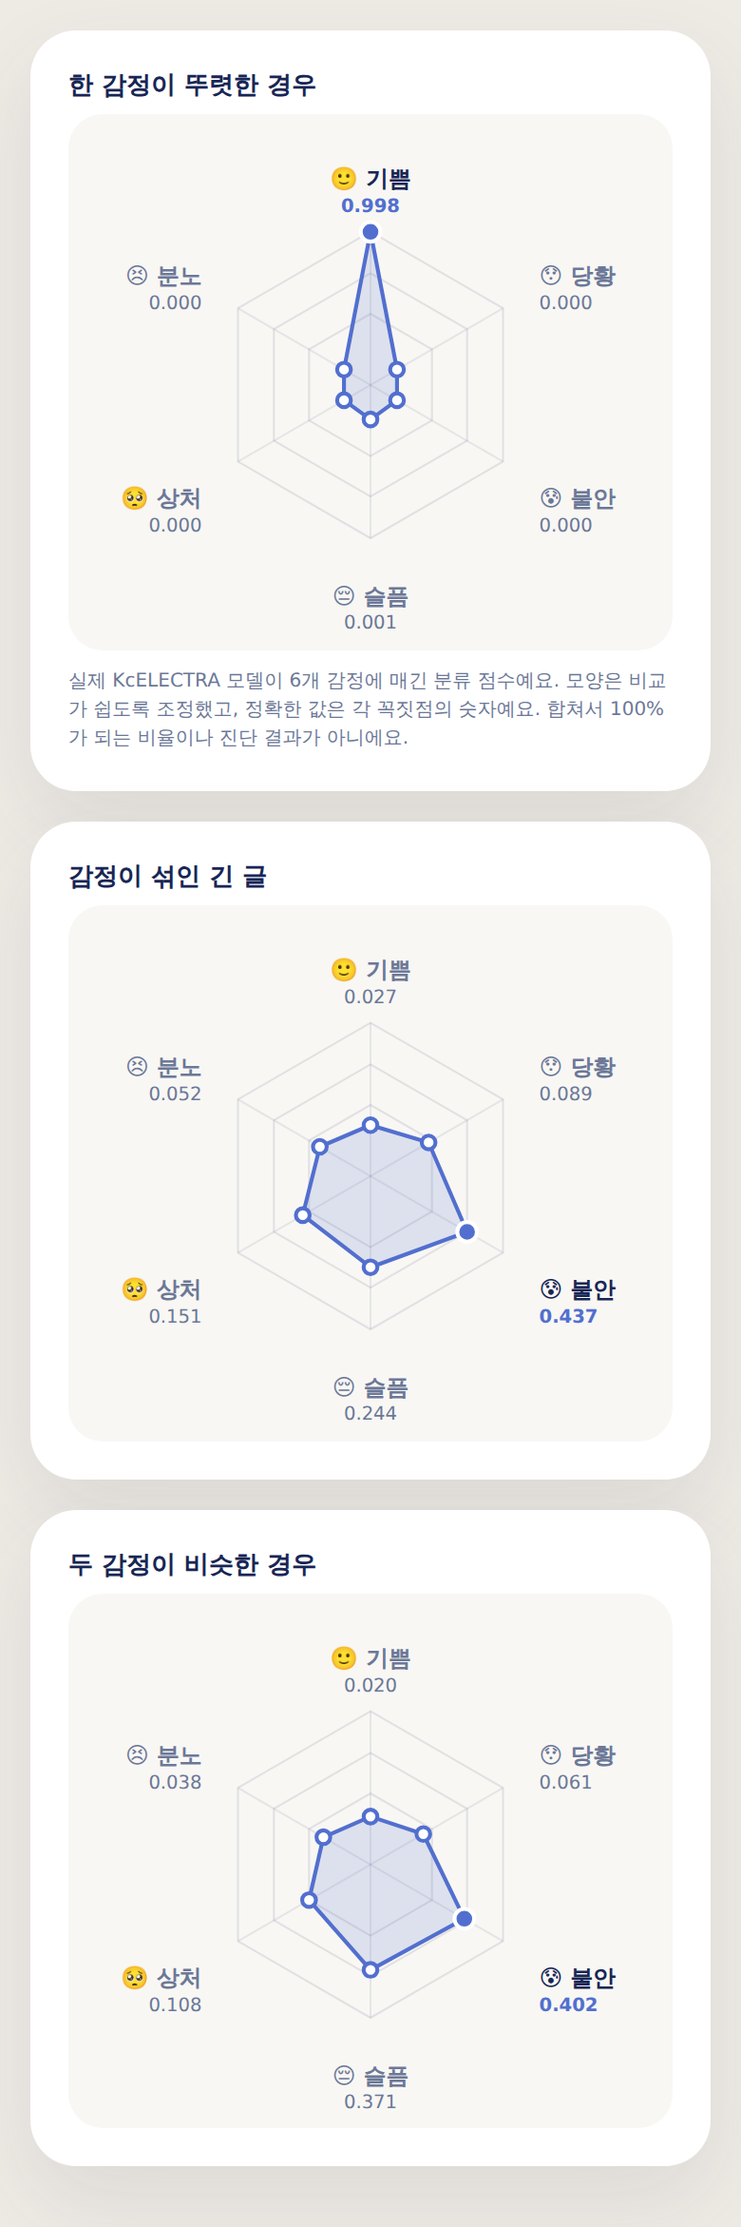
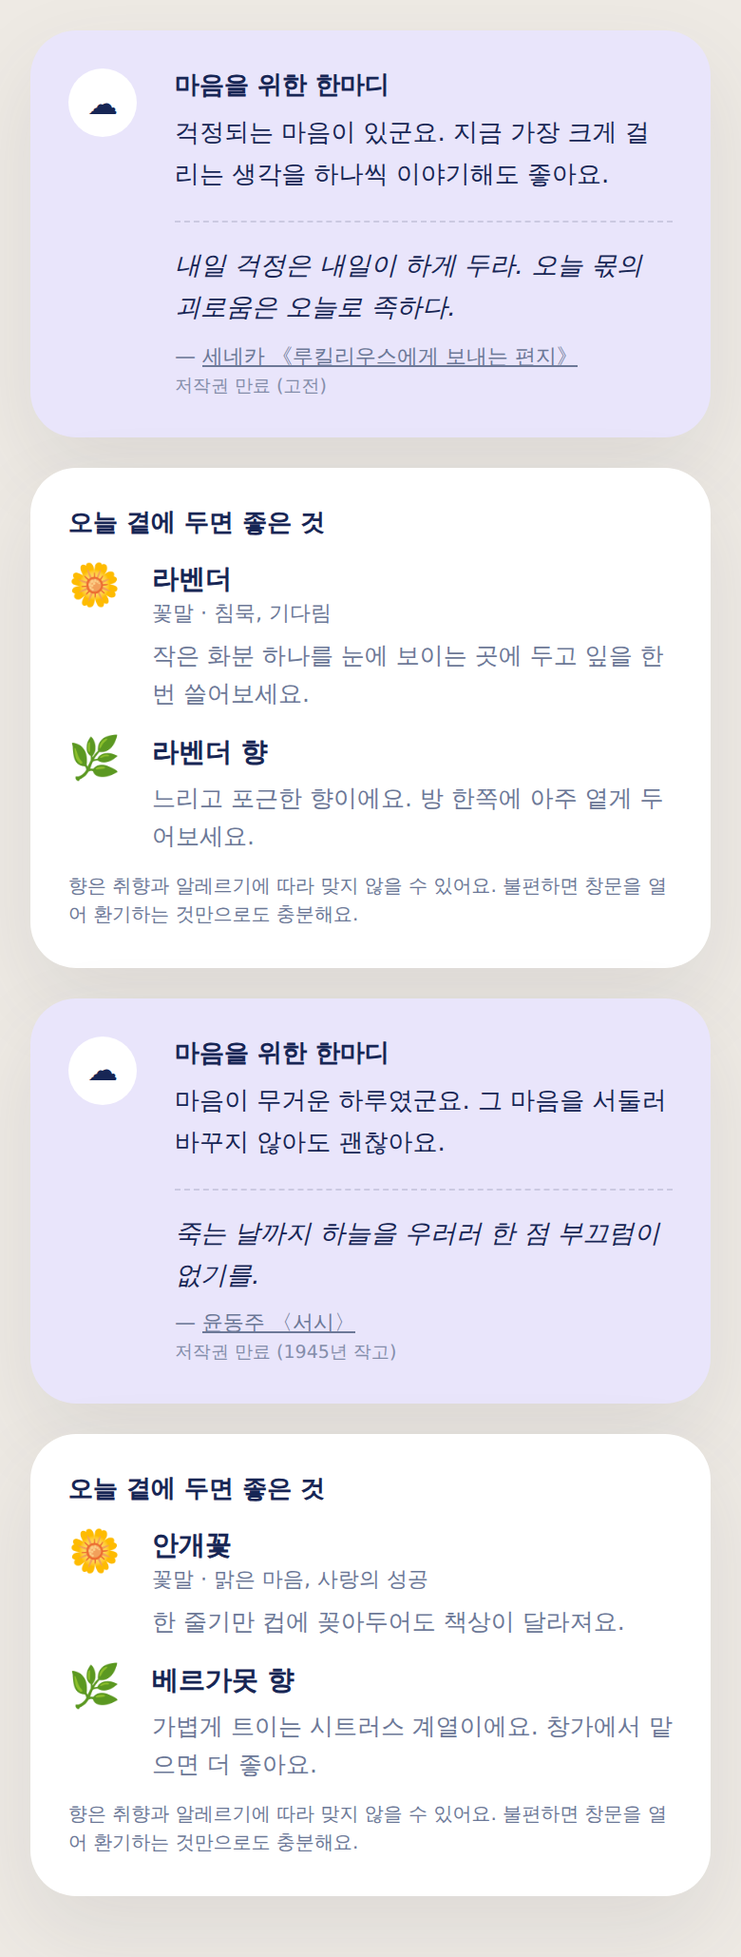
Turn the healing coach into tabs with in-app step guides and nature sounds
Picking an activity now opens a step-by-step panel inside the app instead
of pushing the user out to an external page; the source stays as a small
link at the bottom. Rain, wind and wave sounds are synthesised in the
browser with the Web Audio API, so no audio file is shipped and no
recording is licensed.

Claude-Session: https://claude.ai/code/session_01Q3547CZe5AwKq73dkBk4s7

diff --git a/dist/app.js b/dist/app.js
@@ -206,6 +206,14 @@ function renderAnalysis() {
   loadHealingRecommendations();
 }
 
+let healingCards = [];
+let selectedHealingId = null;
+
+const KIND_ICON = {
+  '호흡': '🌱', '감각활동': '◌', '자연의 소리': '🎧', '걷기': '👣',
+  '꽃·나무': '🌿', '필사': '✎', '음악': '♫', '취미': '✦'
+};
+
 async function loadHealingRecommendations() {
   if (!lastAnalysis) return;
   try {
@@ -218,17 +226,136 @@ async function loadHealingRecommendations() {
       });
       if (!response.ok) throw new Error('recommendation');
       data = await response.json();
+      lastAnalysis.recommendation = data;
     }
-    const list = document.querySelector('.recommend-list');
-    list.innerHTML = data.cards.slice(0, 8).map((card, index) => `<article class="card recommendation ${index === 0 ? 'featured' : ''}">
-      <div class="rec-icon ${index % 2 ? 'blue' : 'mint'}" aria-hidden="true">${card.kind === '음악' ? '♫' : card.kind === '필사' ? '✎' : card.kind === '꽃·나무' ? '🌿' : card.kind === '취미' ? '✦' : card.kind === '감각활동' ? '◌' : '🌱'}</div>
-      <div><span class="soft-chip">${index === 0 ? '1순위 추천' : escapeHtml(card.kind)}</span><h3>${escapeHtml(card.title)}</h3><p>${escapeHtml(card.description)}</p></div>
-      ${card.id === 'breathing-1m' ? '<button class="secondary-button" type="button" data-start-breath>1분 시작하기</button>' : ''}
-      ${card.source_url?.startsWith('https://') ? `<a class="secondary-button" href="${escapeHtml(card.source_url)}" target="_blank" rel="noopener noreferrer" aria-label="${escapeHtml(card.source_title)} 자료 새 창에서 보기">${escapeHtml(card.source_title)} ↗</a>` : ''}
-    </article>`).join('');
+    healingCards = data.cards.slice(0, 8);
+    if (!healingCards.some(card => card.id === selectedHealingId)) {
+      selectedHealingId = healingCards[0] ? healingCards[0].id : null;
+    }
+    renderHealing();
   } catch (_) {
-    // 기본 정적 추천 카드는 API 오류에도 그대로 사용할 수 있다.
+    const host = document.getElementById('healing-host');
+    if (host) host.innerHTML = '<p class="model-note">추천을 불러오지 못했어요. 잠시 후 다시 열어주세요.</p>';
   }
+}
+
+// 활동을 탭으로 고르고, 고른 하나만 자세히 본다. 링크로 나가지 않고 앱 안에서 끝낸다.
+function renderHealing() {
+  const host = document.getElementById('healing-host');
+  if (!host || !healingCards.length) return;
+  const tabs = healingCards.map((card) => {
+    const on = card.id === selectedHealingId;
+    return `<button class="heal-tab${on ? ' active' : ''}" type="button" role="tab" aria-selected="${on}"
+      data-heal="${escapeHtml(card.id)}"><span aria-hidden="true">${KIND_ICON[card.kind] || '✦'}</span>${escapeHtml(card.title)}</button>`;
+  }).join('');
+  const card = healingCards.find(item => item.id === selectedHealingId) || healingCards[0];
+  const steps = (card.steps || []).map(step => `<li>${escapeHtml(step)}</li>`).join('');
+  let action = '';
+  if (card.id === 'breathing-1m') {
+    action = '<button class="secondary-button" type="button" data-start-breath>1분 호흡 시작하기</button>';
+  } else if (card.sound) {
+    const playing = currentSound && currentSound.kind === card.sound;
+    action = `<button class="secondary-button${playing ? ' playing' : ''}" type="button" data-sound="${escapeHtml(card.sound)}">${playing ? '■ 정지' : '▶ 소리 재생'}</button>`;
+  }
+  host.innerHTML =
+    `<div class="heal-tabs" role="tablist" aria-label="추천 활동 고르기">${tabs}</div>` +
+    `<article class="card heal-detail" role="tabpanel">
+       <div class="heal-head"><span class="soft-chip">${escapeHtml(card.kind)}</span>
+         <span class="heal-min">약 ${card.minutes}분</span></div>
+       <h3>${escapeHtml(card.title)}</h3>
+       <p class="heal-desc">${escapeHtml(card.description)}</p>
+       ${steps ? `<ol class="heal-steps">${steps}</ol>` : ''}
+       ${action}
+       <small class="model-note">출처 · ${card.source_url && card.source_url.startsWith('https://')
+         ? `<a href="${escapeHtml(card.source_url)}" target="_blank" rel="noopener noreferrer">${escapeHtml(card.source_title)} ↗</a>`
+         : escapeHtml(card.source_title)}</small>
+     </article>`;
+}
+
+document.addEventListener('click', (event) => {
+  const tab = event.target.closest('[data-heal]');
+  if (tab) { selectedHealingId = tab.dataset.heal; renderHealing(); return; }
+  const soundButton = event.target.closest('[data-sound]');
+  if (soundButton) { toggleNatureSound(soundButton.dataset.sound); }
+});
+
+// 자연의 소리는 녹음 파일이 아니라 브라우저가 실시간으로 만든다.
+// 저작권 문제가 없고 앱 용량도 늘지 않는다.
+let audioContext = null;
+let currentSound = null;
+
+function toggleNatureSound(kind) {
+  if (currentSound && currentSound.kind === kind) { stopNatureSound(); renderHealing(); return; }
+  stopNatureSound();
+  try {
+    currentSound = startNatureSound(kind);
+  } catch (_) {
+    toast('이 브라우저에서는 소리를 만들 수 없어요.');
+    currentSound = null;
+  }
+  renderHealing();
+}
+
+function stopNatureSound() {
+  if (!currentSound) return;
+  currentSound.stop();
+  currentSound = null;
+}
+
+function startNatureSound(kind) {
+  audioContext = audioContext || new (window.AudioContext || window.webkitAudioContext)();
+  const ctx = audioContext;
+  if (ctx.state === 'suspended') ctx.resume();
+  const buffer = ctx.createBuffer(1, ctx.sampleRate * 3, ctx.sampleRate);
+  const data = buffer.getChannelData(0);
+  let brown = 0;
+  for (let i = 0; i < data.length; i += 1) {
+    const white = Math.random() * 2 - 1;
+    brown = (brown + 0.02 * white) / 1.02;
+    data[i] = kind === 'rain' ? white * 0.45 : brown * 3.2;
+  }
+  const source = ctx.createBufferSource();
+  source.buffer = buffer;
+  source.loop = true;
+  const filter = ctx.createBiquadFilter();
+  const gain = ctx.createGain();
+  gain.gain.value = 0;
+  let lfo = null;
+  if (kind === 'rain') {
+    filter.type = 'highpass';
+    filter.frequency.value = 750;
+  } else if (kind === 'wind') {
+    filter.type = 'lowpass';
+    filter.frequency.value = 420;
+    lfo = ctx.createOscillator();
+    lfo.frequency.value = 0.06;
+    const depth = ctx.createGain();
+    depth.gain.value = 240;
+    lfo.connect(depth); depth.connect(filter.frequency); lfo.start();
+  } else {
+    filter.type = 'lowpass';
+    filter.frequency.value = 700;
+    lfo = ctx.createOscillator();
+    lfo.frequency.value = 0.09;
+    const depth = ctx.createGain();
+    depth.gain.value = 0.16;
+    lfo.connect(depth); depth.connect(gain.gain); lfo.start();
+  }
+  source.connect(filter); filter.connect(gain); gain.connect(ctx.destination);
+  const level = kind === 'rain' ? 0.16 : kind === 'wind' ? 0.22 : 0.2;
+  gain.gain.setValueAtTime(0, ctx.currentTime);
+  gain.gain.linearRampToValueAtTime(level, ctx.currentTime + 1.4);
+  source.start();
+  return {
+    kind,
+    stop() {
+      const now = ctx.currentTime;
+      gain.gain.cancelScheduledValues(now);
+      gain.gain.setValueAtTime(gain.gain.value, now);
+      gain.gain.linearRampToValueAtTime(0, now + 0.6);
+      setTimeout(() => { try { source.stop(); if (lfo) lfo.stop(); } catch (_) {} }, 700);
+    }
+  };
 }
 
 const organizerKey = 'mindily-thoughts';

diff --git a/dist/index.html b/dist/index.html
@@ -148,31 +148,8 @@
           <h2 id="coach-heading">오늘은 이런 휴식이<br>어울릴 것 같아요 🌿</h2>
           <p>지금 바로 할 수 있는 작은 활동부터 골랐어요.</p>
         </div>
-        <div class="recommend-list">
-          <article class="card recommendation featured">
-            <div class="rec-icon mint" aria-hidden="true">🌱</div><div><span class="soft-chip">1순위 추천</span><h3>1분 호흡하기</h3><p>복잡한 생각을 잠시 내려놓고 호흡의 감각에 집중해보세요.</p></div><button class="secondary-button" type="button" data-start-breath>시작하기</button>
-          </article>
-          <article class="card recommendation">
-            <div class="rec-icon blue" aria-hidden="true">♫</div><div><h3>소리로 쉬어가기</h3><p>차분한 자연의 소리를 들으며 머릿속의 속도를 낮춰봐요.</p></div><button class="secondary-button pale-blue" type="button" data-toast="지금은 데모 음원 대신 1분 호흡을 이용해보세요.">들어보기</button>
-          </article>
-          <article class="card recommendation">
-            <div class="rec-icon lilac" aria-hidden="true">☁</div><div><h3>마음 털어놓기</h3><p>조금 더 이야기하고 싶다면, 서두르지 않고 들어드릴게요.</p></div><button class="secondary-button pale-lilac" type="button" data-go="chat">이야기하기</button>
-          </article>
-        </div>
-        <article class="card recommendation organizer-card">
-          <div class="rec-icon blue" aria-hidden="true">✎</div>
-          <div><span class="soft-chip">스스로 정리하기</span><h3>감정 정리하기</h3><p>있었던 일과 지금 필요한 것을 세 문장으로 적어봐요.</p></div>
-          <button class="secondary-button" type="button" data-open-dialog="organize-dialog">시작하기</button>
-        </article>
-        <div class="card memory-card">
-          <h3>다음 휴식에 기억할까요?</h3>
-          <p>동의하면 선호하는 활동 종류만 서버에 기억해 추천 순서를 조정해요. 30일이 지나면 기억을 사용하지 않아요. 일기 원문과 위치는 저장하지 않아요.</p>
-          <label for="preferred-kind">선호 활동</label>
-          <select id="preferred-kind"><option value="호흡">호흡</option><option value="감각활동">감각 활동</option><option value="걷기">걷기</option></select>
-          <label class="privacy-inline"><input type="checkbox" id="memory-consent"> 익명 선호 활동 기억에 동의합니다.</label>
-          <button class="secondary-button" type="button" id="save-memory">선호 저장</button>
-          <button class="text-button" type="button" id="delete-memory">저장된 선호 삭제</button>
-          <p id="memory-status" role="status">저장된 선호가 없어요.</p>
+        <div class="recommend-list" id="healing-host">
+          <p class="model-note">추천 활동을 불러오는 중이에요…</p>
         </div>
         <button class="text-button session-end-button" type="button" data-open-dialog="feedback-dialog">오늘 사용을 마쳤어요 · 만족도 남기기</button>
         <p class="gentle-note">지금은 충분히 쉬어도 괜찮아요.<br>작은 휴식이 내일의 여유가 되어줄 거예요. ♡</p>

diff --git a/dist/styles.css b/dist/styles.css
@@ -142,3 +142,5 @@ dialog { border: 0; padding: 0; color: var(--ink); }.sheet-dialog { width: min(4
 
 
 .quote-block { margin-top: 12px; padding-top: 12px; border-top: 1px dashed rgba(66,78,113,.18); }.quote-text { margin: 0 0 6px; font-size: 13.5px; line-height: 1.65; font-style: italic; color: var(--ink); }.quote-by { display: block; font-size: 11px; color: var(--muted); font-style: normal; }.quote-by a { color: var(--muted); }.quote-license { display: block; font-size: 9.5px; color: var(--muted); opacity: .8; margin-top: 2px; }.care-card { padding: 20px; }.care-row { display: grid; grid-template-columns: 34px 1fr; gap: 10px; align-items: start; margin-bottom: 12px; }.care-row:last-of-type { margin-bottom: 4px; }.care-icon { font-size: 22px; line-height: 1.2; }.care-row strong { display: block; font-size: 14px; }.care-meaning { display: block; font-size: 11px; color: var(--muted); margin-top: 1px; }.care-row p { margin: 5px 0 0; font-size: 12.5px; color: var(--muted); line-height: 1.6; }
+
+.heal-tabs { display: flex; gap: 7px; overflow-x: auto; padding: 2px 2px 10px; scrollbar-width: none; }.heal-tabs::-webkit-scrollbar { display: none; }.heal-tab { flex: 0 0 auto; border: 1px solid var(--line); background: #fff; color: var(--muted); border-radius: 999px; padding: 9px 14px; font-size: 12.5px; font-weight: 600; white-space: nowrap; display: inline-flex; align-items: center; gap: 5px; min-height: 40px; cursor: pointer; }.heal-tab.active { background: var(--blue-deep); border-color: var(--blue-deep); color: #fff; }.heal-detail { padding: 20px; }.heal-head { display: flex; align-items: center; justify-content: space-between; margin-bottom: 8px; }.heal-min { font-size: 11px; color: var(--muted); }.heal-detail h3 { margin: 0 0 6px; font-size: 17px; }.heal-desc { margin: 0 0 14px; font-size: 13px; color: var(--muted); line-height: 1.65; }.heal-steps { margin: 0 0 16px; padding-left: 20px; display: grid; gap: 8px; }.heal-steps li { font-size: 13px; line-height: 1.6; }.heal-steps li::marker { color: var(--blue-deep); font-weight: 700; }.heal-detail .secondary-button.playing { background: var(--blue-deep); color: #fff; }

diff --git a/healing_knowledge.py b/healing_knowledge.py
@@ -5,6 +5,7 @@ ACTIVITIES = (
         'id': 'breathing-1m', 'kind': '호흡', 'title': '1분 호흡하기', 'minutes': 1,
         'description': '편안한 자세에서 무리하지 않고 천천히 숨을 들이쉬고 내쉬어 보세요.',
         'emotions': {'불안', '당황', '분노', '상처', '슬픔', '기쁨'},
+        'steps': ['편한 자세로 앉아 어깨의 힘을 뺍니다.', '코로 4초간 천천히 들이쉽니다.', '2초 멈췄다가 입으로 6초간 길게 내쉽니다.', '무리하지 말고 다섯 번만 반복합니다.', '어지러우면 바로 멈추고 평소대로 숨 쉽니다.'],
         'source_title': 'NHS 호흡 연습',
         'source_url': 'https://www.nhs.uk/mental-health/self-help/guides-tools-and-activities/breathing-exercises-for-stress/',
     },
@@ -12,6 +13,7 @@ ACTIVITIES = (
         'id': 'grounding-5-4-3-2-1', 'kind': '감각활동', 'title': '주변 감각 돌아보기', 'minutes': 5,
         'description': '보이는 것 다섯 가지부터 천천히 세며 지금 있는 곳에 주의를 돌려보세요.',
         'emotions': {'불안', '당황', '분노'},
+        'steps': ['지금 눈에 보이는 것 다섯 가지를 천천히 셉니다.', '귀에 들리는 소리 네 가지를 찾습니다.', '손끝에 닿는 감촉 세 가지를 느껴봅니다.', '맡을 수 있는 냄새 두 가지를 떠올립니다.', '마지막으로 입안의 맛 한 가지에 주의를 둡니다.'],
         'source_title': 'Kent Community Health NHS 감각 활동',
         'source_url': 'https://www.kentcht.nhs.uk/leaflet/panic-attacks/',
     },
@@ -19,6 +21,7 @@ ACTIVITIES = (
         'id': 'walk-10m', 'kind': '걷기', 'title': '가볍게 걸어보기', 'minutes': 10,
         'description': '가능한 환경이라면 몸 상태에 맞춰 가까운 곳을 천천히 걸어보세요.',
         'emotions': {'기쁨', '슬픔', '상처', '분노'},
+        'steps': ['신발을 신고 문밖으로 한 걸음 나갑니다.', '목적지를 정하지 않고 걷습니다.', '발바닥이 땅에 닿는 느낌에만 주의를 둡니다.', '숨이 차면 속도를 줄입니다.', '돌아와서 물을 한 잔 마십니다.'],
         'source_title': 'WHO 신체 활동 자료',
         'source_url': 'https://www.who.int/news-room/fact-sheets/detail/physical-activity',
     },
@@ -26,6 +29,7 @@ ACTIVITIES = (
         'id': 'plant-care-10m', 'kind': '꽃·나무', 'title': '초록 식물 돌보기', 'minutes': 10,
         'description': '창가의 식물 잎을 살피고 물이 필요한지 천천히 확인해보세요.',
         'emotions': {'슬픔', '상처', '분노', '당황'},
+        'steps': ['가까운 화분이나 창밖 나무를 찾습니다.', '잎의 앞뒤를 천천히 살펴봅니다.', '흙에 손가락을 2cm 넣어 마른지 확인합니다.', '말랐으면 물을 천천히 줍니다.', '잎에 앉은 먼지를 한 장씩 닦아냅니다.'],
         'source_title': 'RHS 실내 식물 안내',
         'source_url': 'https://www.rhs.org.uk/houseplants',
     },
@@ -33,6 +37,7 @@ ACTIVITIES = (
         'id': 'copying-10m', 'kind': '필사', 'title': '10분 짧은 필사', 'minutes': 10,
         'description': '마음에 닿는 문장을 한두 줄 골라 천천히 옮겨 적어보세요. 긴 원문은 저장하지 않아요.',
         'emotions': {'불안', '슬픔', '상처', '당황'},
+        'steps': ['종이와 펜을 준비합니다.', '위에 나온 인용구를 한 글자씩 옮겨 적습니다.', '글씨를 잘 쓰려 하지 않습니다.', '다 적었으면 소리 내어 한 번 읽습니다.', '마음에 남는 단어에 동그라미를 칩니다.'],
         'source_title': 'Project Gutenberg 공개 도서',
         'source_url': 'https://www.gutenberg.org/',
     },
@@ -40,6 +45,7 @@ ACTIVITIES = (
         'id': 'music-search-10m', 'kind': '음악', 'title': '차분한 음악 찾아보기', 'minutes': 10,
         'description': '자동 재생 없이 원하는 플랫폼에서 ‘차분한 음악’을 직접 골라보세요.',
         'emotions': {'불안', '슬픔', '상처', '분노', '기쁨'},
+        'steps': ['듣고 싶은 분위기를 한 단어로 정합니다.', '평소 쓰는 음악 앱에서 직접 검색합니다.', '자동 재생은 끄고 한 곡만 고릅니다.', '눈을 감고 처음 30초만 들어봅니다.', '계속 듣고 싶으면 그대로 두세요.'],
         'source_title': 'YouTube 검색으로 열기',
         'source_url': 'https://www.youtube.com/results?search_query=%EC%B0%A8%EB%B6%84%ED%95%9C+%EC%9D%8C%EC%95%85',
     },
@@ -47,18 +53,56 @@ ACTIVITIES = (
         'id': 'sketch-10m', 'kind': '취미', 'title': '10분 선 그리기', 'minutes': 10,
         'description': '잘 그리려 하지 말고 종이에 선과 모양을 자유롭게 반복해보세요.',
         'emotions': {'불안', '당황', '분노', '슬픔'},
+        'steps': ['종이 한 장과 펜을 꺼냅니다.', '선을 위아래로 천천히 반복해 긋습니다.', '손이 가는 대로 원과 네모를 채웁니다.', '잘 그리려는 마음이 들면 손을 더 느리게 합니다.', '10분이 되면 그대로 덮어둡니다.'],
         'source_title': 'MoMA 미술 활동 자료',
         'source_url': 'https://www.moma.org/magazine/articles/948',
+    },
+    {
+        'id': 'sound-rain', 'kind': '자연의 소리', 'title': '빗소리 듣기', 'minutes': 5,
+        'description': '창밖에 비가 내리는 듯한 소리를 앱 안에서 바로 들을 수 있어요.',
+        'emotions': {'불안', '슬픔', '상처', '당황'},
+        'sound': 'rain',
+        'steps': ['아래 재생 버튼을 누릅니다.', '소리가 너무 크면 기기 음량을 줄입니다.',
+                  '눈을 감고 빗줄기가 굵어졌다 가늘어지는 흐름을 따라갑니다.',
+                  '생각이 떠오르면 밀어내지 말고 소리로 다시 돌아옵니다.',
+                  '충분해지면 정지 버튼을 누릅니다.'],
+        'source_title': '브라우저에서 직접 만든 소리 (녹음 파일 아님)',
+        'source_url': 'https://developer.mozilla.org/ko/docs/Web/API/Web_Audio_API',
+    },
+    {
+        'id': 'sound-wind', 'kind': '자연의 소리', 'title': '바람 소리 듣기', 'minutes': 5,
+        'description': '나뭇가지 사이를 지나는 바람처럼 느리게 오르내리는 소리예요.',
+        'emotions': {'불안', '분노', '당황', '기쁨'},
+        'sound': 'wind',
+        'steps': ['아래 재생 버튼을 누릅니다.', '숨을 바람의 속도에 맞춰 천천히 쉽니다.',
+                  '소리가 커질 때 들이쉬고 잦아들 때 내쉽니다.',
+                  '억지로 맞추지 말고 편한 만큼만 따라갑니다.',
+                  '충분해지면 정지 버튼을 누릅니다.'],
+        'source_title': '브라우저에서 직접 만든 소리 (녹음 파일 아님)',
+        'source_url': 'https://developer.mozilla.org/ko/docs/Web/API/Web_Audio_API',
+    },
+    {
+        'id': 'sound-waves', 'kind': '자연의 소리', 'title': '파도 소리 듣기', 'minutes': 5,
+        'description': '밀려왔다 물러가는 파도처럼 천천히 반복되는 소리예요.',
+        'emotions': {'슬픔', '상처', '불안', '기쁨'},
+        'sound': 'waves',
+        'steps': ['아래 재생 버튼을 누릅니다.', '파도가 밀려오는 구간을 한 번 세어봅니다.',
+                  '열 번을 세는 동안 다른 생각은 잠시 내려둡니다.',
+                  '숫자를 놓쳐도 괜찮습니다. 다시 하나부터 셉니다.',
+                  '충분해지면 정지 버튼을 누릅니다.'],
+        'source_title': '브라우저에서 직접 만든 소리 (녹음 파일 아님)',
+        'source_url': 'https://developer.mozilla.org/ko/docs/Web/API/Web_Audio_API',
     },
 )
 
 
 def retrieve_activities(emotion: str, stress: int, minutes: int) -> list[dict]:
     available = [item for item in ACTIVITIES if item['minutes'] <= minutes]
+    calming = {'호흡', '감각활동', '자연의 소리'}
     ranked = sorted(available, key=lambda item: (
-        emotion in item['emotions'],
-        stress >= 4 and item['id'] in {'breathing-1m', 'grounding-5-4-3-2-1'},
-        item['kind'] in {'꽃·나무', '필사', '음악', '취미'},
+        emotion in item['emotions'],          # 감정에 맞는 활동을 먼저
+        stress >= 4 and item['kind'] in calming,  # 스트레스가 높으면 진정 활동을 먼저
+        item['minutes'] <= 5,                 # 짧아서 지금 바로 할 수 있는 것
         -item['minutes'],
     ), reverse=True)
     return [{key: value for key, value in item.items() if key != 'emotions'} for item in ranked]

diff --git a/docs/기능명세서.md b/docs/기능명세서.md
@@ -11,7 +11,7 @@
 | F04 | 무드 선택 | 활력×쾌적함의 4영역, 세부 감정, AI 제안 수락·수정, 잘 모르겠어요를 제공한다. 제안과 확정값을 분리 저장한다. |
 | F05 | 맞춤형 힐링 | 호흡·음악·마음 털어놓기·감정 정리의 네 가지 활동을 모두 제공한다. 확정 무드에 따라 순서를 조정하고 사용자가 다른 활동도 선택할 수 있다. |
 | F06 | 호흡 | 1분 호흡 안내, 타이머, 시작·일시정지·재개·종료, 완료 후 감정 기록을 제공한다. |
-| F07 | 음악 | 재생 가능한 음원 또는 검증된 외부 음악 링크로 연결한다. 재생·중지 또는 외부 이동을 명확히 구분하고 출처를 기록한다. |
+| F07 | 음악·자연의 소리 | **빗소리·바람·파도 소리는 Web Audio API로 브라우저에서 실시간 생성해 앱 안에서 재생한다(녹음 파일 없음, 저작권 이슈 없음).** 음악은 자동 재생 없이 사용자가 직접 선택하도록 외부 검색으로 연결한다. |
 | F08 | AI 대화 | 사용자 입력, 공감 응답, 대화 표시, 응답 대기·실패 상태를 제공한다. 실제 대화 엔진과 데이터 전송 범위를 명시한다. |
 | F09 | 감정 정리 | 있었던 일·느낀 감정·지금 필요한 것을 작성하고 저장할 수 있다. |
 | F10 | 마음 기록 | 주간·월간·전체 보기, 날짜별 감정과 별도의 스트레스 변화, 과거 일기 접근을 제공한다. 무드 색상에 좋고 나쁨의 순위를 매기지 않는다. |
